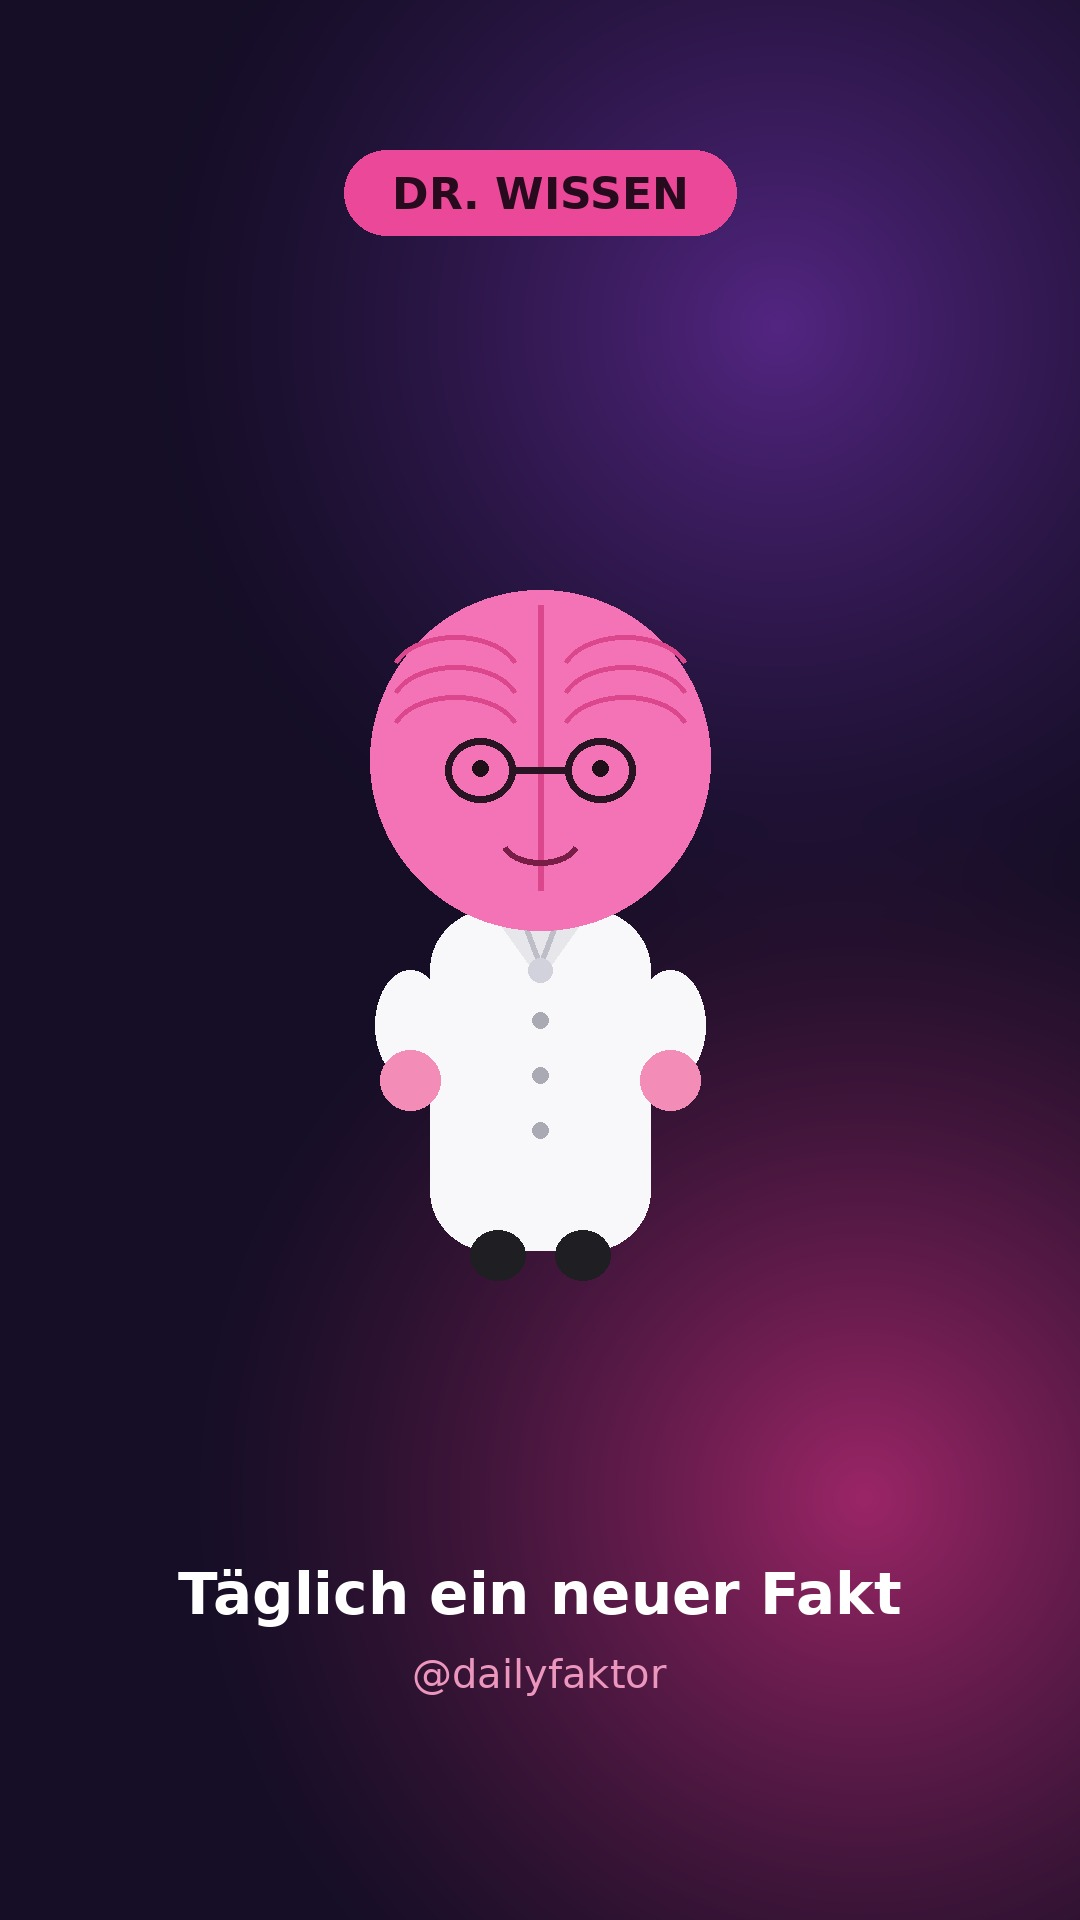
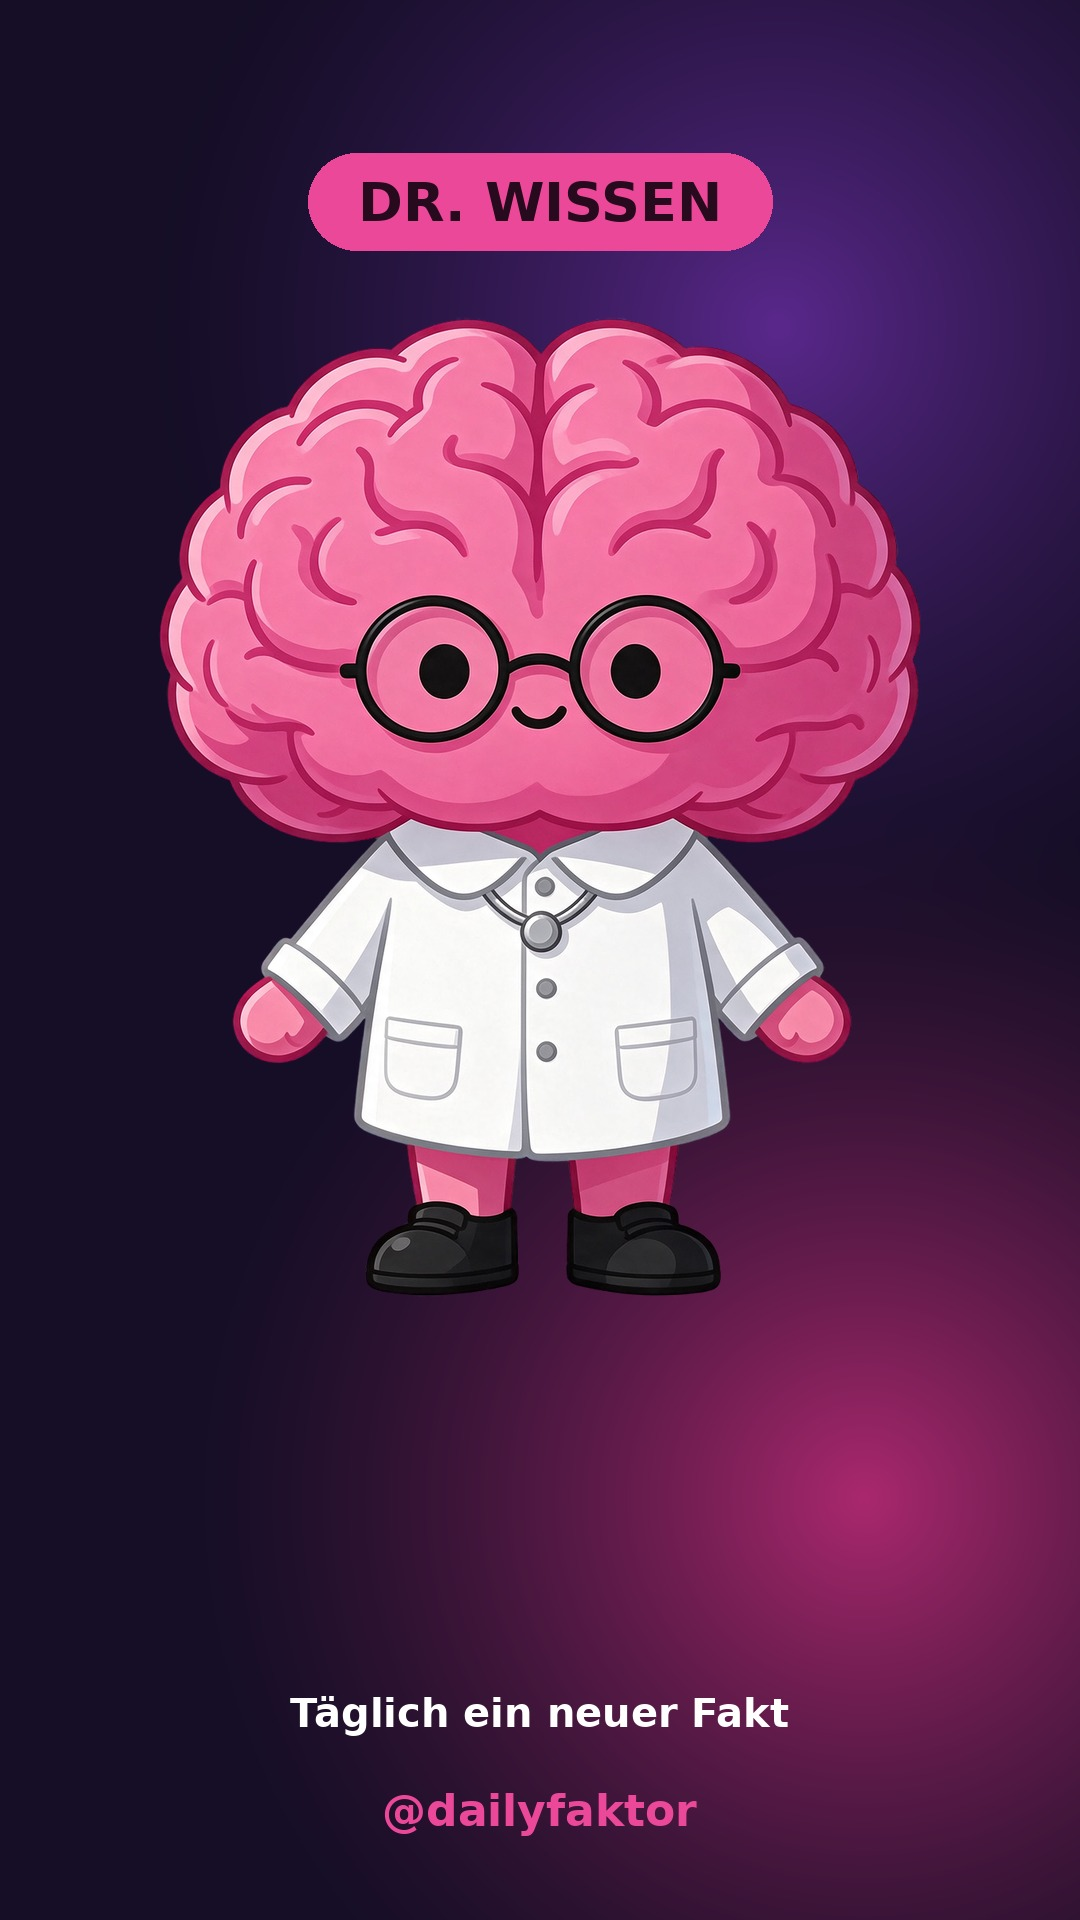
Replace placeholder cover with real Dr. Wissen character image
Add character_dr_wissen.png (real ElevenLabs asset, transparent bg)
and the missing Ernährung B (Öl) icon; rebuild the Instagram cover
compositing the real character onto the branded gradient background.

Claude-Session: https://claude.ai/code/session_01TgULoHnTD9weJM6ZiYcTSv

diff --git a/production/production_plan.md b/production/production_plan.md
@@ -224,8 +224,13 @@ Lösung: Festes Branding-Titelbild erstellt und ins Repo gelegt:
 Ab sofort IMMER `cover_url` mit dieser URL an `create_video_post` übergeben (Windsor-Action unterstützt das:
 params.cover_url = publicly accessible JPEG). Der tägliche Posting-Trigger (trig_015j1YodFZFshjX3DBnSRYxA)
 muss entsprechend aktualisiert werden, damit auch automatische Posts das Cover mitschicken.
-Sobald das echte ElevenLabs-Charakterbild (Download durch Nutzer) vorliegt, dieses Titelbild damit ersetzen
-(gleicher Dateiname/Pfad beibehalten, dann ändert sich die URL nicht).
+UPDATE (2026-11-20, später am Abend): Nutzer hat das echte Dr.-Wissen-Charakterbild hochgeladen
+(production/assets/character_dr_wissen.png, transparenter Hintergrund, von ElevenLabs). Platzhalter-Cover
+wurde durch echtes Titelbild ersetzt (Charakter freigestellt + auf Verlaufshintergrund mit Badge/Tagline/Handle
+komponiert), gleicher Dateipfad beibehalten → URL bleibt stabil:
+https://raw.githubusercontent.com/furkanmercan-sys/dailyfaktor-media/main/covers/cover_dr_wissen.jpg
+Außerdem hochgeladen: Ernährung-Icon B (Öltropfen, production/assets/icons/ernaehrung_b_oel.png).
+Damit sind jetzt ALLE 11 Bild-Assets (Charakter + 10 Kategorie-Icons) + Bonus-Banane vorhanden.
 
 ## Nächste Schritte sobald Blocker gelöst
 1. Audio für Tag 6-10 generieren (gleiche Stimme vv3bG6FrcGtmeOdRSriS, Muster wie oben).
